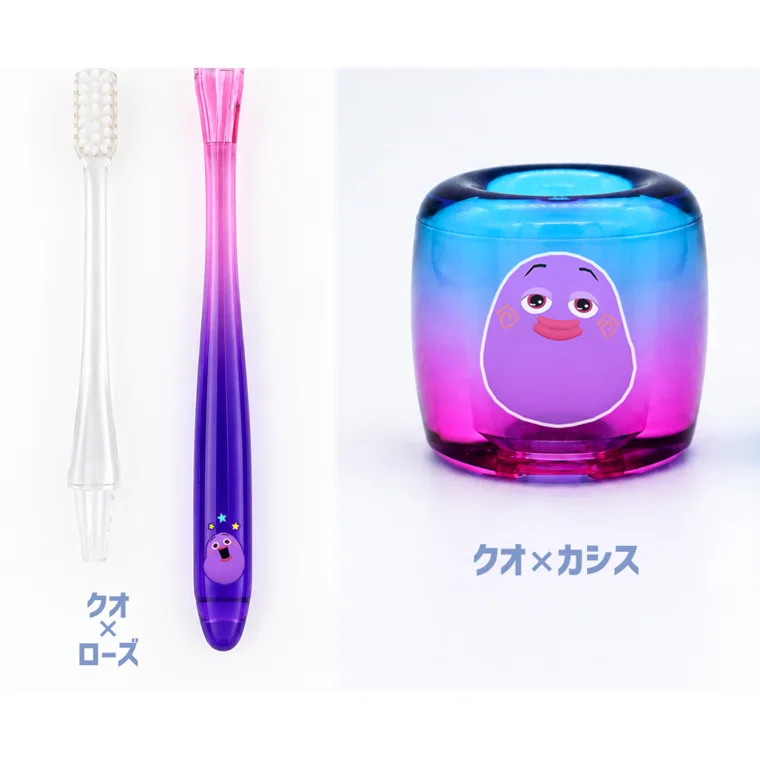
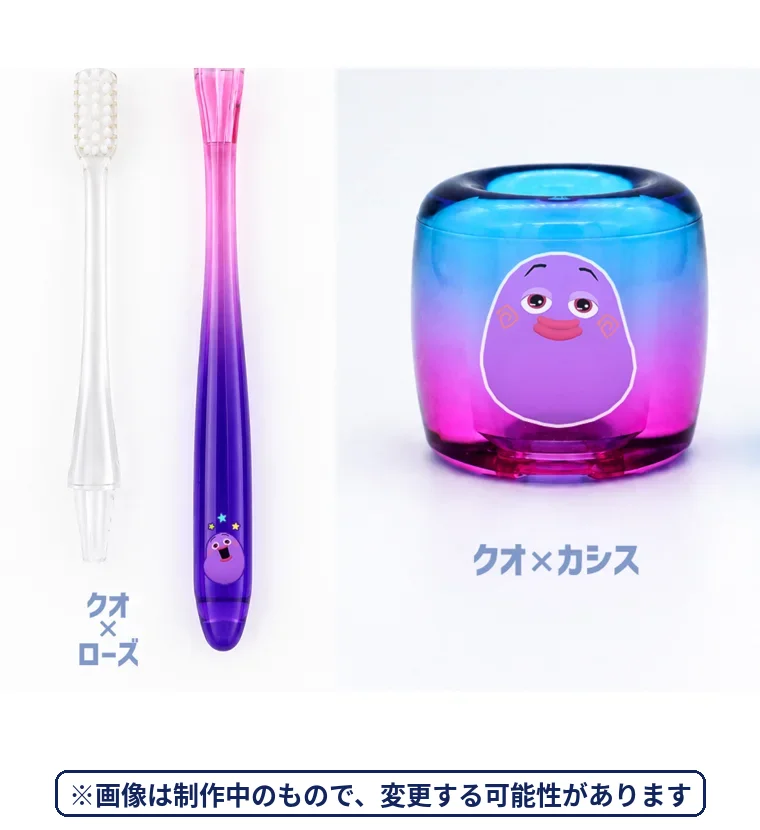
歯ブラシ56・57の「画像は制作中」を画像内に移す
- p56/p57 の下に「※画像は制作中のもので、変更する可能性があります」の帯を追加
- ひとこと（default-prizes.js とスプシC列）から「（画像は制作中）」を削除
- 保存済みデータに旧文言が残っていたら既定のひとことに置き換える

Claude-Session: https://claude.ai/code/session_01BBUhGbV2Lco8wiDZL61Vgj

diff --git a/roulette/default-prizes.js b/roulette/default-prizes.js
@@ -58,8 +58,8 @@ window.MAGNA_DEFAULT_PRIZES = [{"no":1,"name":"3000 モンド","note":"全員に
 {"no":53,"name":"限定マグナ・ぷくぷくシール","note":"ぷっくりかわいい限定シール！","rarity":"NORMAL","enabled":true,"all":false,"imageFile":"LD_0017.png","image":"prize_pics/p53.webp"},
 {"no":54,"name":"限定マグナ・キラキラシール","note":"光にかざすとキラキラ！限定シール","rarity":"NORMAL","enabled":true,"all":false,"imageFile":"LD_0019.png","image":"prize_pics/p54.webp"},
 {"no":55,"name":"マグナ・新デザインマグカップ","note":"新デザインのマグカップ！まだだれも持ってないぞ","rarity":"NORMAL","enabled":true,"all":false,"imageFile":"LD_0021.png","image":"prize_pics/p55.webp"},
-{"no":56,"name":"クオの歯ブラシ（スタンド付き）","note":"クオの歯ブラシとスタンドのセット！歯みがきが楽しくなる（画像は制作中）","rarity":"NORMAL","enabled":true,"all":false,"imageFile":"LD_0022.png","image":"prize_pics/p56.webp"},
-{"no":57,"name":"ミントの歯ブラシ（スタンド付き）","note":"ミントの歯ブラシとスタンドのセット！歯みがきが楽しくなる（画像は制作中）","rarity":"NORMAL","enabled":true,"all":false,"imageFile":"LD_0023.png","image":"prize_pics/p57.webp"},
+{"no":56,"name":"クオの歯ブラシ（スタンド付き）","note":"クオの歯ブラシとスタンドのセット！歯みがきが楽しくなる","rarity":"NORMAL","enabled":true,"all":false,"imageFile":"LD_0022.png","image":"prize_pics/p56.webp"},
+{"no":57,"name":"ミントの歯ブラシ（スタンド付き）","note":"ミントの歯ブラシとスタンドのセット！歯みがきが楽しくなる","rarity":"NORMAL","enabled":true,"all":false,"imageFile":"LD_0023.png","image":"prize_pics/p57.webp"},
 {"no":58,"name":"500 モンド","note":"500モンドをゲット！ショップで何を買う？","rarity":"NORMAL","enabled":true,"all":false,"imageFile":"LD_0064.png","image":"prize_pics/p58.webp"},
 {"no":59,"name":"ボーかたやまコレクション（中古品）","note":"ボーかたやまコレクションからのお宝！何が届くかはお楽しみ","rarity":"BIG","enabled":true,"all":false,"imageFile":"LD_0070.png","image":"prize_pics/p59.webp"},
 {"no":60,"name":"連続学習日数チケット 10枚","note":"連続学習の強い味方が10枚も！","rarity":"NORMAL","enabled":true,"all":false,"imageFile":"LD_0067.png","image":"prize_pics/p60.webp"},

diff --git a/roulette/index.html b/roulette/index.html
@@ -397,7 +397,7 @@ class Component extends DCLogic {
     // 保存データで画像が空の賞品は、既定リストの同じ番号の画像を補う
     if (saved && seed) saved = saved.map(p => (p && !p.image) ? Object.assign({}, p, { image: (seed.find(x => x.no === p.no) || {}).image || null }) : p);
     // 以前の取り込みで運営メモ（補足列）が画面用の文に入っていたら、既定のひとことに置き換える
-    const memo = /確認待ち|補充案|付与|在庫|確認）|単品案|セット案|制作予定/;
+    const memo = /確認待ち|補充案|付与|在庫|確認）|単品案|セット案|制作予定|画像は制作中/;
     if (saved && seed) saved = saved.map(p => { const d = p && seed.find(x => x.no === p.no && x.name === p.name); return (d && (!p.note || memo.test(p.note) || /^\s*参加者全員に[！!]?\s*$/.test(p.note))) ? Object.assign({}, p, { note: d.note }) : p; });
     this.state = {
       prizes: saved || seed || this.makePrizes(75),
